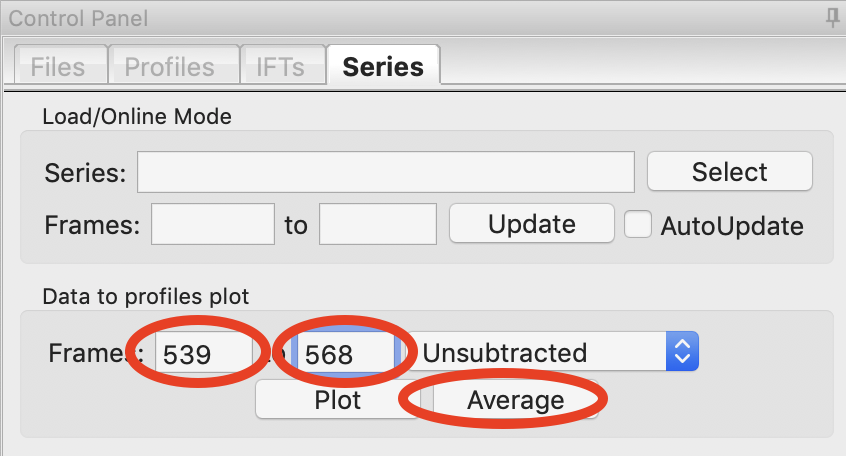
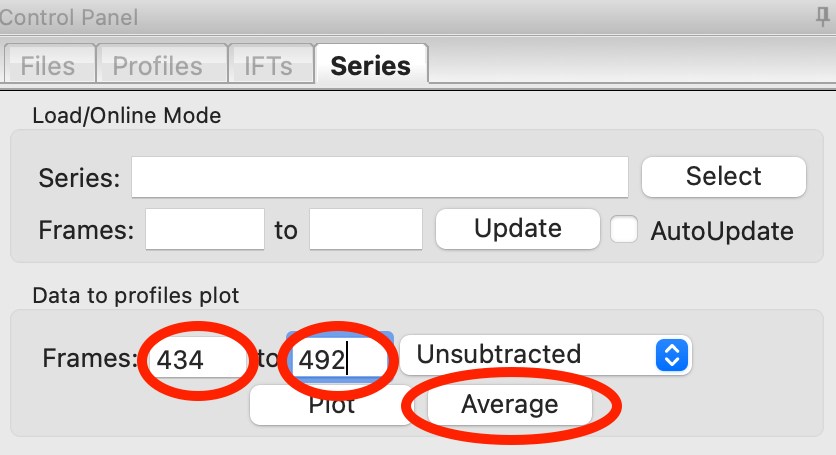
Updated documentation for 2.1.2.

diff --git a/Tests/test_load.py b/Tests/test_load.py
@@ -1502,7 +1502,7 @@ def test_load_and_integrate_images_saxslab(saxslab_settings):
     assert params['imageHeader']['saxsconf_wavelength'] == 1.5418
     assert 'calibration_params' in params
 
-def test_load_ingegrate_images_biocat_eiger(settings_biocat_eiger):
+def test_load_integrate_images_biocat_eiger(settings_biocat_eiger):
     filenames = [os.path.join('.', 'data', 'vac_007_data_000001.h5')]
 
     profile_list, img_list = raw.load_and_integrate_images(filenames,

diff --git a/docs/source/tutorial/s3_autocenter.rst b/docs/source/tutorial/s3_autocenter.rst
@@ -2,10 +2,11 @@ Centering and calibration
 ^^^^^^^^^^^^^^^^^^^^^^^^^^^^^^^^^^^^^^^^^^^^^^^^^^^^
 .. _s3p1:
 
-The first step is to set the beam center, x-ray wavelength, and sample to detector distance.
+The next step is to set the beam center, x-ray wavelength, and sample to detector distance.
 Before this can be done, you have to set the image and file header type in the Options window.
 The best way to find the beam center and sample to detector distance is using the automated
-method in RAW.
+method in RAW. This tutorial assumes you have just done :ref:`Part 1 <s3p3>`.
+If not, open RAW as in Step 1 and set your data folder as in Step 8 of :ref:`Part 1 <s3p3>`.
 
 A video version of this tutorial is available:
 
@@ -14,34 +15,6 @@ A video version of this tutorial is available:
     <style>.embed-container { position: relative; padding-bottom: 56.25%; height: 0; overflow: hidden; max-width: 100%; } .embed-container iframe, .embed-container object, .embed-container embed { position: absolute; top: 0; left: 0; width: 100%; height: 100%; }</style><div class='embed-container'><iframe src='https://www.youtube.com/embed/v7-CROk8oqM' frameborder='0' allowfullscreen></iframe></div>
 
 The written version of the tutorial follows.
-
-#.  Open RAW. The install instructions contain information on installing and running RAW.
-
-#.  Open the Options window by going to the Options menu (top of the RAW window or in the
-    system bar, depending on your OS) and selecting “Advanced Options”
-
-#.  In the options window, select the Image/Header Format section on the left.
-
-#.  In the area on the right, set the Image format drop-down menu to “Pilatus” and the
-    Header file format to “BioCAT, APS”.
-
-    |options_header_png|
-
-#.  Go to the "General Settings" section. If necessary, uncheck both of the Flip Image
-    checkboxes. These allow you to control the orientation of the displayed image,
-    and make it match the physical layout of the instrument. For this beamline and
-    image type, no modification is necessary.
-
-    |options_general_png|
-
-#.  Go to the "Radial Averaging" section. Set the Detector to "pilatus_1m"
-
-    |options_radial_1_png|
-
-#.  Click the OK button in the bottom right to close the window and save the
-    changes to the settings.
-
-#.  In the files tab, navigate to the **Tutorial_Data/calibration_data** folder.
 
 #.  We will use silver behenate to calibrate the sample to detector distance,
     the beam center on the detector, and the detector rotation. Show the silver
@@ -101,11 +74,12 @@ The written version of the tutorial follows.
     *   *Tip:* If it didn’t find very many points, try clicking again on another
         part of the ring, and it will add more points to your selection.
 
-#.  Click on the other portions of the same ring that are on different detector
+#.  If needed, click on the other portions of the same ring that are on different detector
     panels to find out the rest of the points in this calibration ring.
 
     *   *Note:* The autofind algorithm will only find peaks in contiguous
-        regions.
+        regions. However, masked regions don't count, so if you've masked the
+        panel gaps before calibration it should find points in all of the panels.
 
     *   *Tip:* Due to the color map selected, the points may be hard to see. Try changing
         to the heat map or grayscale to see the selected points,.
@@ -163,15 +137,6 @@ The written version of the tutorial follows.
 #.  Click the OK button in the Centering/Calibration panel to save your settings and
     exit the panel.
 
-
-.. |options_header_png| image:: images/options_header.png
-    :target: ../_images/options_header.png
-
-.. |options_general_png| image:: images/options_general.png
-    :target: ../_images/options_general.png
-
-.. |options_radial_1_png| image:: images/options_radial_1.png
-    :target: ../_images/options_radial_1.png
 
 .. |calibration_image_png| image:: images/calibration_image.png
     :target: ../_images/calibration_image.png

diff --git a/docs/source/tutorial/s3_masking.rst b/docs/source/tutorial/s3_masking.rst
@@ -2,17 +2,46 @@ Masking
 ^^^^^^^^^^^^^^^
 .. _s3p3:
 
-This section teaches you how to mask out unwanted portions of your image, such as the
-beamstop and bad detector pixels. It assumes you have just done :ref:`Part 1 <s3p1>`.
-If not, open RAW as in Step 1 and set your data folder as in Step 8 of :ref:`Part 1 <s3p1>`.
+The first step in creating a calibraiton file is to to mask out unwanted
+portions of your image, such as the beamstop and bad detector pixels. Before
+this can be done, you have to set the image and file header type in the Options window.
 
-A video version of this tutorial is available:
+A video version of this tutorial is available (please see the first part of the centering
+and calibration video for how to set the initial options):
 
 .. raw:: html
 
     <style>.embed-container { position: relative; padding-bottom: 56.25%; height: 0; overflow: hidden; max-width: 100%; } .embed-container iframe, .embed-container object, .embed-container embed { position: absolute; top: 0; left: 0; width: 100%; height: 100%; }</style><div class='embed-container'><iframe src='https://www.youtube.com/embed/JiacpOC4FJE' frameborder='0' allowfullscreen></iframe></div>
 
 The written version of the tutorial follows.
+
+#.  Open RAW. The install instructions contain information on installing and running RAW.
+
+#.  Open the Options window by going to the Options menu (top of the RAW window or in the
+    system bar, depending on your OS) and selecting “Advanced Options”
+
+#.  In the options window, select the Image/Header Format section on the left.
+
+#.  In the area on the right, set the Image format drop-down menu to “Pilatus” and the
+    Header file format to “BioCAT, APS”.
+
+    |options_header_png|
+
+#.  Go to the "General Settings" section. If necessary, uncheck both of the Flip Image
+    checkboxes. These allow you to control the orientation of the displayed image,
+    and make it match the physical layout of the instrument. For this beamline and
+    image type, no modification is necessary.
+
+    |options_general_png|
+
+#.  Go to the "Radial Averaging" section. Set the Detector to "pilatus_1m"
+
+    |options_radial_1_png|
+
+#.  Click the OK button in the bottom right to close the window and save the
+    changes to the settings.
+
+#.  In the files tab, navigate to the **Tutorial_Data/calibration_data** folder.
 
 #.  In the Files tab, select the **water1_014_0001.tif** file and click the show image button.
 
@@ -71,7 +100,7 @@ The written version of the tutorial follows.
     *   *Tip:* Each click in a polygon mask adds a new point, which defines a
         line segment between it and the previous point.
 
-    |masking_circle_png|
+    |masking_polygon_png|
 
 #.  Zoom back out to the full extent of the image.
 
@@ -112,6 +141,16 @@ The written version of the tutorial follows.
     These save the mask to a separate file or load a mask from a separate file.
     These do not save or set the mask in RAW. To do that you need to use the
     "Set" button as described above. The mask is then saved with the settings.
+
+
+.. |options_header_png| image:: images/options_header.png
+    :target: ../_images/options_header.png
+
+.. |options_general_png| image:: images/options_general.png
+    :target: ../_images/options_general.png
+
+.. |options_radial_1_png| image:: images/options_radial_1.png
+    :target: ../_images/options_radial_1.png
 
 .. |masking_image_1_png| image:: images/masking_image_1.png
     :target: ../_images/masking_image_1.png

diff --git a/docs/source/tutorial/s1_sec.rst b/docs/source/tutorial/s1_sec.rst
@@ -144,7 +144,7 @@ The written version of the tutorial follows.
         where there are minor elution components that you should exclude from
         your buffer selection.
 
-#.  Zoom back out on the plot. Reset the buffer range to 539 to 568 by typing
+#.  Zoom back out on the plot. Reset the buffer range to 434 to 492 by typing
     those values in the Start/End range boxes and hitting enter.
 
 #.  To set the buffer region, create a set of subtracted profiles, and calculate
@@ -212,7 +212,7 @@ The written version of the tutorial follows.
     *   *Tip:* You can manually adjust the sample region range in the same way
         as the buffer range, using the controls in the Start/End boxes.
 
-#.  Once you are satisfied with the region picked (should be 690-719), click the
+#.  Once you are satisfied with the region picked (should be 697-711), click the
     'To Profiles Plot' button. This averages the selected region and sends the resulting
     average to RAW's Profiles Plot.
 
@@ -225,15 +225,15 @@ The written version of the tutorial follows.
 #.  If you adjust the sample or buffer region in a way that could be problematic,
     RAW will warn you. Try this.
 
-    *   Adjust the Buffer end to include some of the leading edge peaks, such as
-        ending at 600. You will want to click on the 'Unsubtracted' plot to
+    *   Adjust the Buffer end to include more of the elution range, such as
+        ending at 520. You will want to click on the 'Unsubtracted' plot to
         see the buffer range. Then click 'Set Buffer'. You will see a warning window
         telling you what might be wrong with the selected region. Click 'Cancel'.
 
         |lc_analysis_buffer_range_warning_png|
 
-    *   Adjust the Sample start to include some of the non-flat region, such as
-        starting at 681. Then click 'To Profiles Plot'. You will see a warning window
+    *   Adjust the Sample start to include some of the non-flat Rg region, such as
+        starting at 680. Then click 'To Profiles Plot'. You will see a warning window
         telling you what might be wrong with the selected region. Click 'Cancel'.
 
         |lc_analysis_sample_range_warning_png|
@@ -286,7 +286,7 @@ The written version of the tutorial follows.
     |lc_analysis_two_buffers_png|
 
 #.  Once you are happy with the second buffer region, click 'Set buffer'. A range like
-    ~840-870 is reasonable.
+    ~840-896 is reasonable.
 
 #.  A warning window will pop up. In this case, we have purposefully chosen two
     buffer regions because they are different, so ignore the warning and click

diff --git a/docs/source/changes.rst b/docs/source/changes.rst
@@ -14,13 +14,13 @@ version contains mostly minor bug fixes. Significant changes include:
 
 *   Added a prebuilt version for arm64 chips on MacOS (Apple Silicon).
 *   Removed Windows 7 and 8 support form the prebuilt version for Windows.
-*   Removed support for MacOS <10.14 from the prebuilt vresion for MacOS
+*   Removed support for MacOS <10.14 from the prebuilt version for MacOS
     (required for codesigning for newer versions).
 *   Added support for Eiger2 images from BioCAT.
 *   Improved handling of multi-image files.
 *   Adds a new dependency on mmcif_pdbx to read mmcif files.
 
-There are also several other small bug fixes and new features.
+There are also numerous other small bug fixes and new features.
 
 NOTE: As of now, RAW is not compatible with ATSAS 3.1.0, which is currently
 available for download as a pre-release. This is because ATSAS 3.1.0 is currently
@@ -39,8 +39,8 @@ All changes:
 *   Fixed a bug where a series buffer region wasn't found if there were no peaks
     present in the data set.
 *   Fixed a bug where REGALS results would show two lines for the same concentration
-    curve when it was supposed to.
-*   fixed a bug where validation of the REGALS settings could cause an error.
+    curve when it wasn't supposed to.
+*   Fixed a bug where validation of the REGALS settings could cause an error.
 *   Fixed a bug where changing the range for REGALS in the SVD plot when there
     were previous REGALS results could cause an error.
 *   Fixed a bug where using the qmin or qmax boxes in the series adjustment

diff --git a/docs/source/install/mac_prebuilt.rst b/docs/source/install/mac_prebuilt.rst
@@ -3,15 +3,18 @@ Using a prebuilt app package
 .. _macprebuilt:
 
 The recommended way to install RAW on Mac is using a prebuilt app package. To install
-from a prebuilt app package simply download the :file:`RAW-{x}.{y}.{z}-mac.dmg` (where :file:`{x}.{y}.{z}` is the
-version number) file from sourceforge (
+from a prebuilt app package simply download the :file:`RAW-{x}.{y}.{z}-mac-{platform}.dmg`
+(where :file:`{x}.{y}.{z}` is the version number and :file:`{platform}` is x86_64 for
+Intel macs and arm64 for Apple Silicon macs) file from sourceforge (
 `https://sourceforge.net/projects/bioxtasraw <https://sourceforge.net/projects/bioxtasraw>`_),
 double click it to open the dmg, and drag the :file:`RAW.app` file to your Applications folder
 (or wherever you want to install RAW).
 
-.. raw:: html
+Direct links fo the downloads:
 
-    <a href="https://sourceforge.net/projects/bioxtasraw/files/latest/download"><img alt="Download BioXTAS RAW" src="https://a.fsdn.com/con/app/sf-download-button" width=276 height=48 srcset="https://a.fsdn.com/con/app/sf-download-button?button_size=2x 2x"></a>
+*   `Apple Silicon macs (M1 or newer chips) <https://sourceforge.net/projects/bioxtasraw/files/RAW-2.1.2-mac-arm64.dmg/download>`_)
+
+*   `Intel macs (pre-M1 chips) <https://sourceforge.net/projects/bioxtasraw/files/RAW-2.1.2-mac-x86_64.dmg/download>`_)
 
 
 **Important Notes:**

diff --git a/docs/source/install/mac_detailsource.rst b/docs/source/install/mac_detailsource.rst
@@ -7,17 +7,7 @@ OS X and macOS install from source instructions
     *   Download the free miniconda python 3.x, e.g. 3.8, installer from:
         `https://docs.conda.io/en/latest/miniconda.html <https://docs.conda.io/en/latest/miniconda.html>`_
 
-        *   Make sure you get the python 3.x version!
-
-    *   Open a Terminal window by starting the Terminal app.
-
-        *   Using the Launcher, it is located in the Other section.
-
-        |10000201000006900000041A52DBF3453A0EEDE9_png|
-
-        |10000201000007800000043899D84AD76212B4C9_png|
-
-        *   Browsing the Applications folder in Finder, Terminal is in the Utilities folder.
+    *   Open a Terminal window.
 
     *   In the terminal window type ``cd ~\Downloads`` and hit enter.
 
@@ -88,10 +78,3 @@ OS X and macOS install from source instructions
     *   In the future, you can start RAW as in the previous step.
 
     *   If RAW doesn’t work, check out the :ref:`solutions to common problems <mactrb>`
-
-
-
-.. |10000201000007800000043899D84AD76212B4C9_png| image:: images/mac_install/10000201000007800000043899D84AD76212B4C9.png
-
-
-.. |10000201000006900000041A52DBF3453A0EEDE9_png| image:: images/mac_install/10000201000006900000041A52DBF3453A0EEDE9.png

diff --git a/docs/source/tutorial/s3_abscarbon.rst b/docs/source/tutorial/s3_abscarbon.rst
@@ -3,8 +3,8 @@ Setting absolute scale with glassy carbon
 .. _s3p6:
 
 This section teaches you how to set up absolute scale using glassy carbon (NIST SRM 3600)
-as a reference. It assumes you have completed :ref:`Parts 1 <s3p1>`,
-:ref:`2 <s3p3>` and :ref:`3 <s3p4>`\ . Note that you can use water (:ref:`Part 4 <s3p5>`) or
+as a reference. It assumes you have completed :ref:`Parts 1 <s3p3>`,
+:ref:`2 <s3p1>` and :ref:`3 <s3p4>`\ . Note that you can use water (:ref:`Part 4 <s3p5>`) or
 glassy carbon for absolute scale calibration in RAW. Glassy carbon is the more accurate approach,
 if available.
 

diff --git a/docs/source/tutorial/s3_normalization.rst b/docs/source/tutorial/s3_normalization.rst
@@ -3,7 +3,7 @@ Setting normalization and other options
 .. _s3p4:
 
 This section teaches you how to set up normalization by a beamstop counter, and
-other options. It assumes you have completed :ref:`Parts 1 <s3p1>` and :ref:`2 <s3p3>`\ .
+other options. It assumes you have completed :ref:`Parts 1 <s3p3>` and :ref:`2 <s3p1>`\ .
 
 A video version of this tutorial is available:
 

diff --git a/docs/source/index.rst b/docs/source/index.rst
@@ -59,7 +59,7 @@ at CHESS and the `BioCAT <https://www.bio.aps.anl.gov/>`_  (18-ID) beamline at t
 also used at various other beamlines, including:
 
 *   BL19U2 (SSRF)
-*   I911-4 (aka I911-SAXS) beamline at MAX-LAB
+*   LiX (NSLS II)
 
 `SAXSLAB <http://saxslab.com/>`_ distributes RAW with some of its homesources,
 and RAW is used at various other homesources around the world.

diff --git a/docs/source/tutorial/section3.rst b/docs/source/tutorial/section3.rst
@@ -16,8 +16,8 @@ Sections 1 and 2.
 .. toctree::
    :maxdepth: 2
 
-   s3_autocenter
    s3_masking
+   s3_autocenter
    s3_normalization
    s3_abswater
    s3_abscarbon
